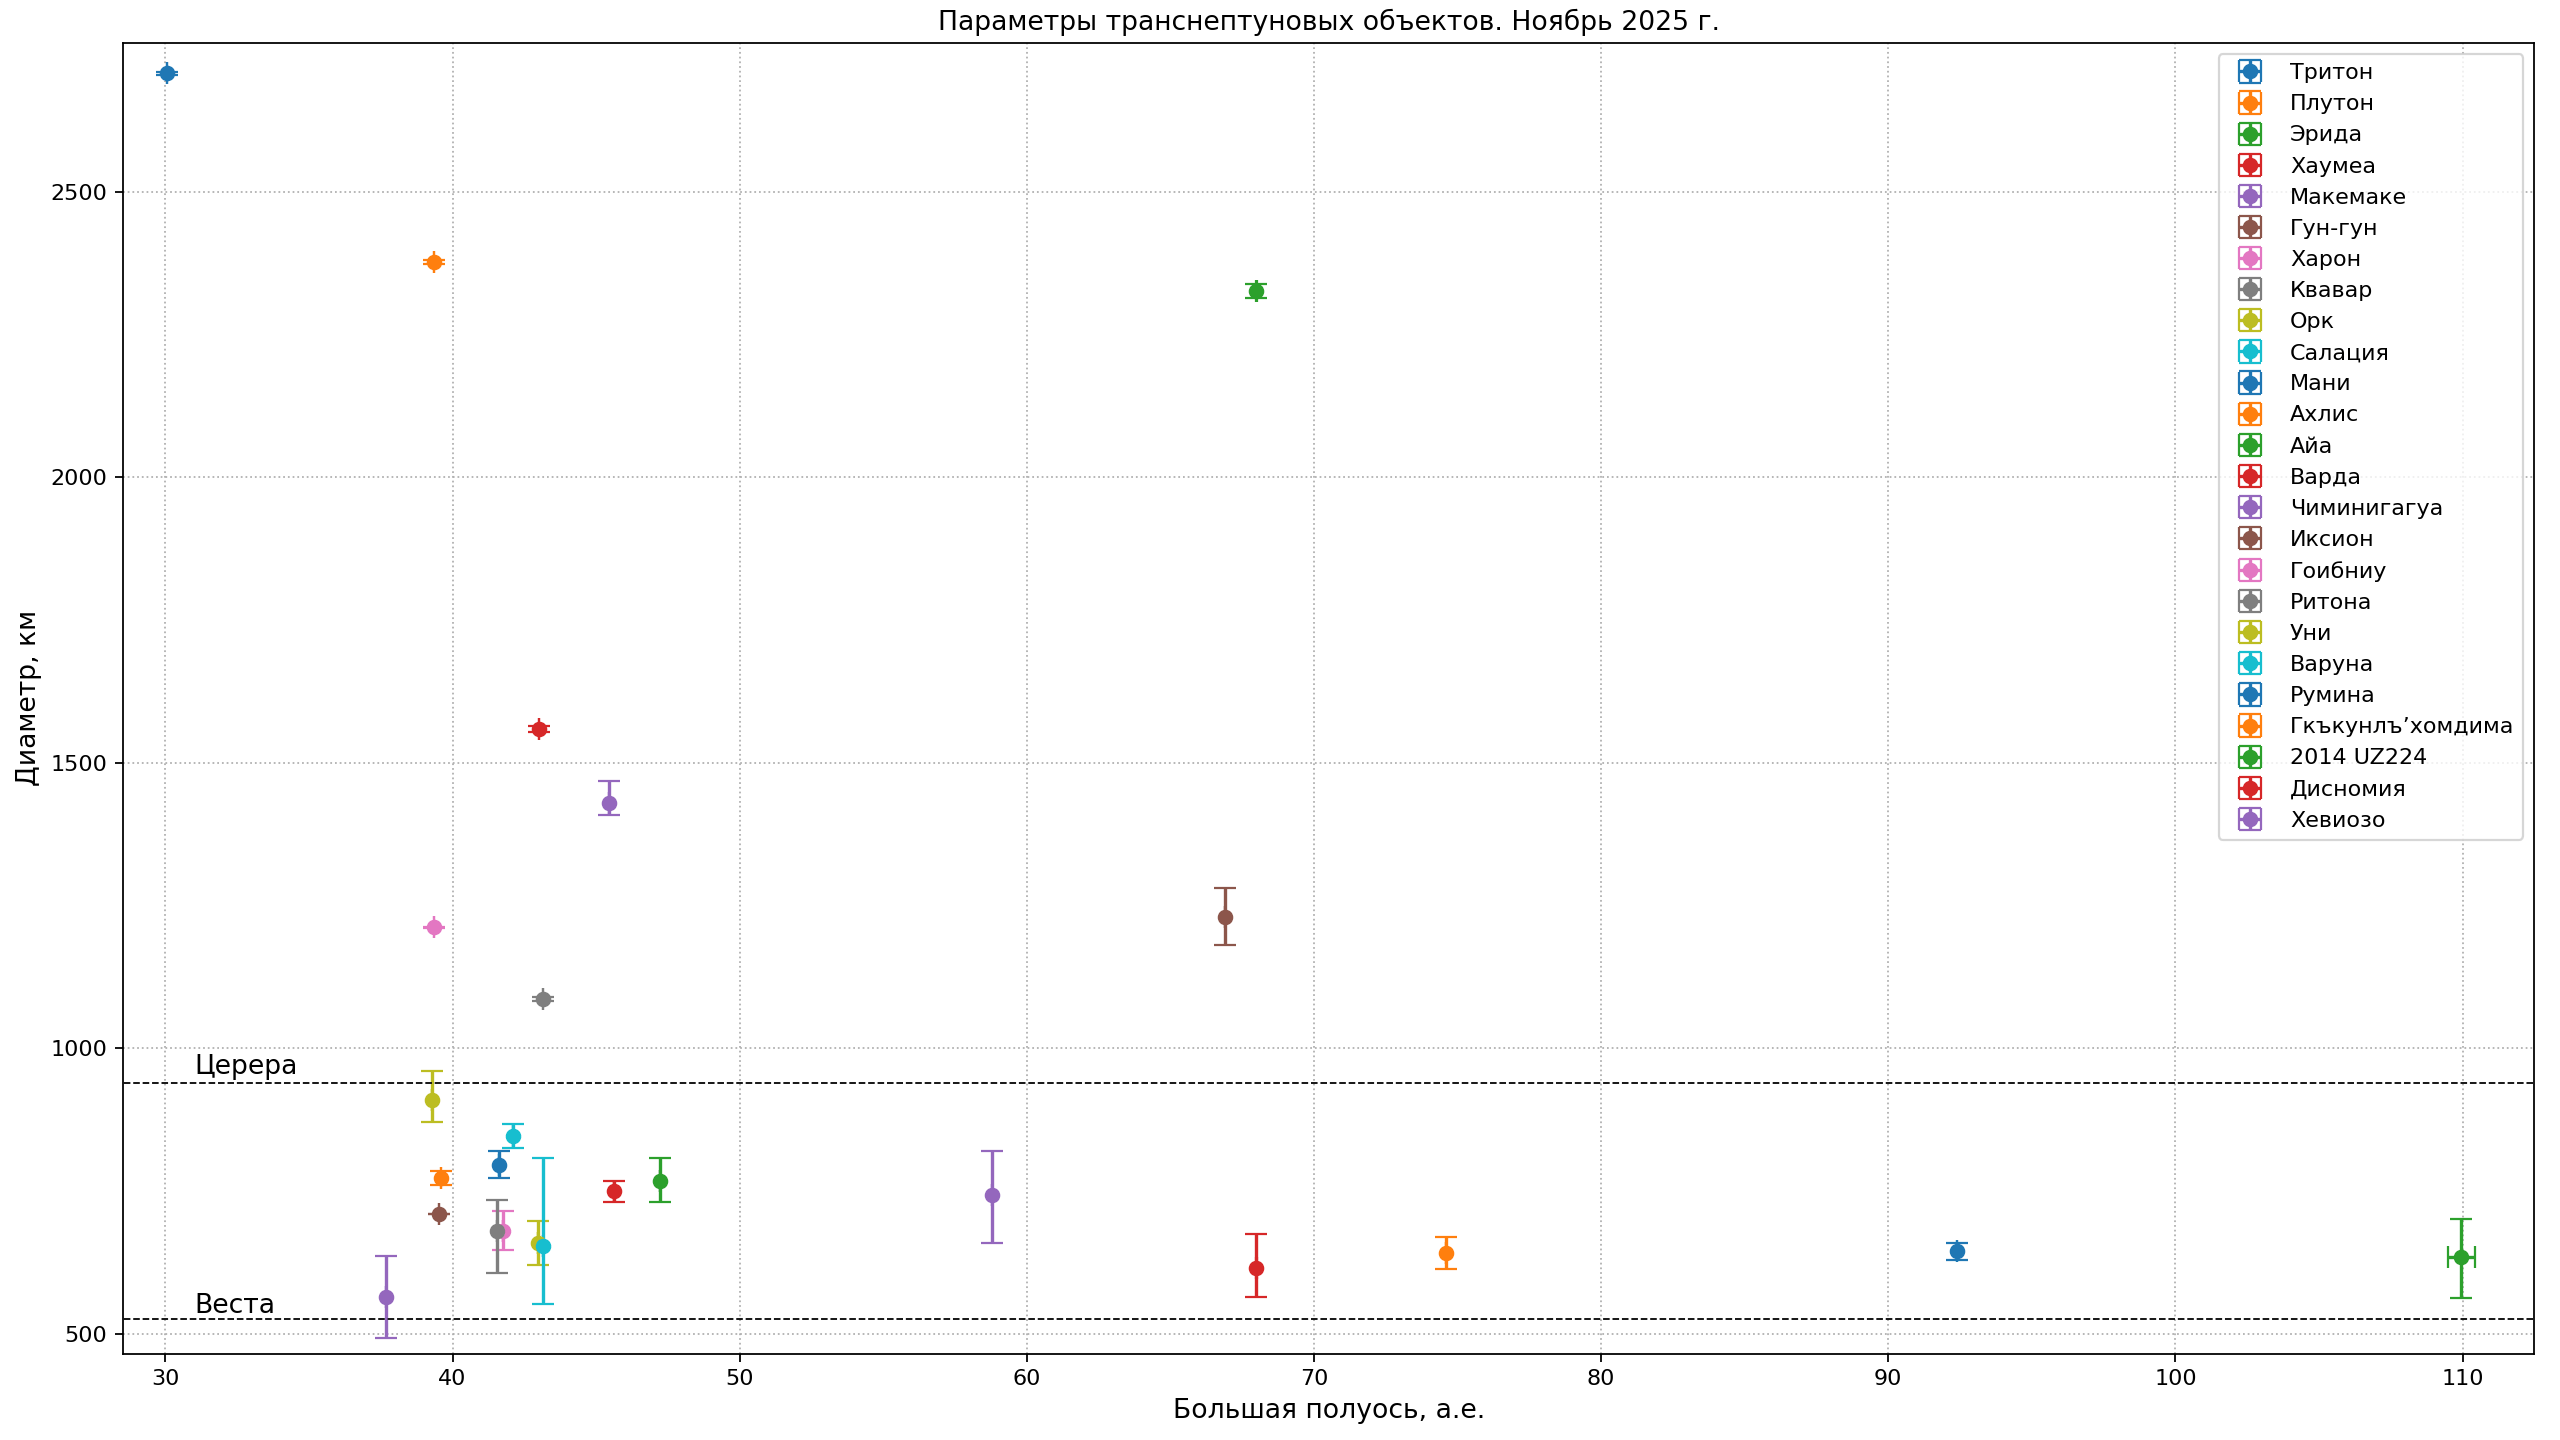
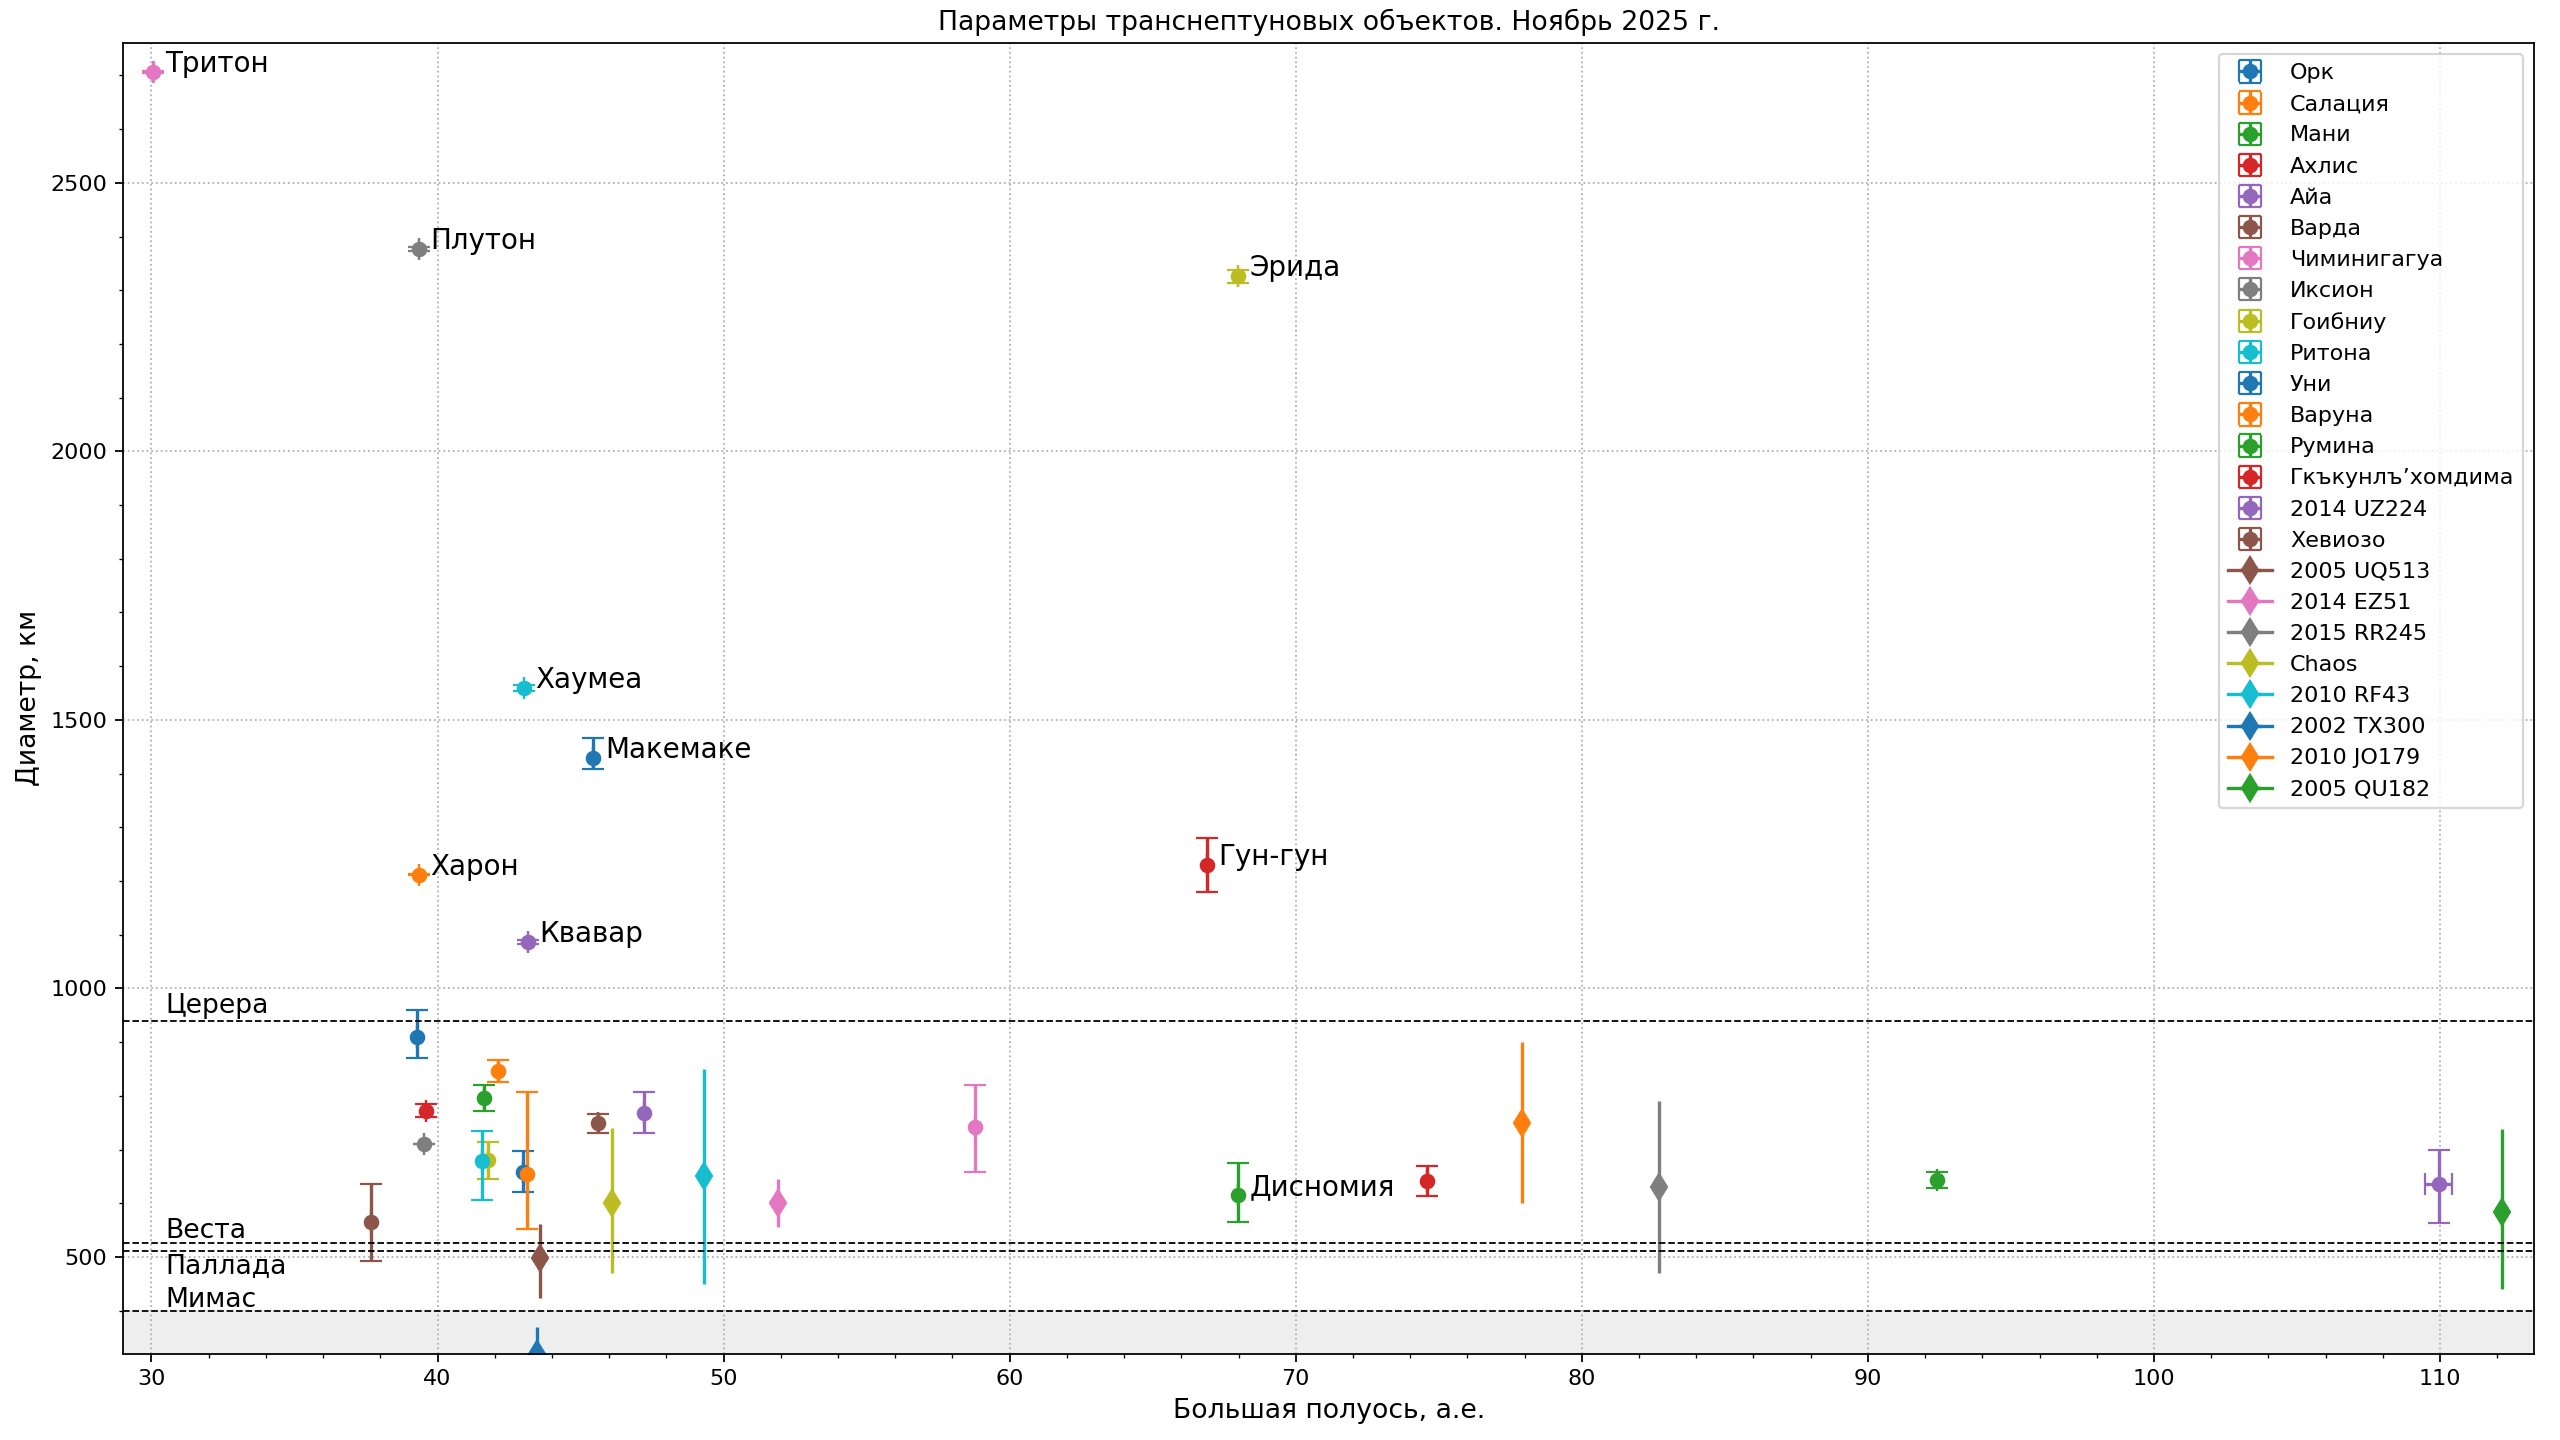
Update plot and code

diff --git a/src/astrodata/solarsystem/largest-tno-d-a-with-errors.py b/src/astrodata/solarsystem/largest-tno-d-a-with-errors.py
@@ -1,23 +1,18 @@
 """Python script for plotting distribution of Solar system objects along the semimajor axis and diameter estimate.
-Data sources presented in https://en.wikipedia.org/wiki/List_of_possible_dwarf_planets 
+Data sources are presented in https://en.wikipedia.org/wiki/List_of_possible_dwarf_planets
+Recent orbital parameters are taken from https://www.minorplanetcenter.net/iau/MPCORB.html
 """
 
 import matplotlib.pyplot as plt
+from matplotlib.ticker import AutoMinorLocator
 
 
 data = {
-    # "name", "имя", "semimajor axis", ("a-", "a+"), "diameter", ("d-", "d+"), "uncertainty parameter"],
-    "Triton": ["Тритон", 30.07, (0.002, 0.002), 2707, (2, 2),               0],
-    "Pluto": ["Плутон", 39.33986, (0.00006, 0.00006), 2377, (3, 3),         0],
-    "Eris": ["Эрида", 67.997129, (0.00093, 0.00093), 2326, (12, 12),        2],
-    "Haumea": ["Хаумеа", 43.0056888, (0.00027, 0.00027), 1559, (6, 6),      1],
-    "Makemake": ["Макемаке", 45.449691, (0.00027, 0.00027), 1429, (20, 38), 1],
-    "Gonggong": ["Гун-гун", 66.895052, (0.0056, 0.0056), 1230, (50, 50),    3],
-    "Charon": ["Харон", 39.33986, (0.00006, 0.00006), 1212, (1, 1),         0],
-    "Quaoar": ["Квавар", 43.1629259, (0.00027, 0.00027), 1086, (4, 4),      1],
+    # "name/designation": ["имя", "semimajor axis", ("a-", "a+"), "diameter", ("d-", "d+"), "uncertainty parameter"],
     # Ceres is here
     "Orcus": ["Орк", 39.2892348, (0.00027, 0.00027), 910, (40, 50),         1],
-    # Sedna is here
+    # "Sedna": ["Седна", 549.5551805, (0.05467, 0.05467), 906, (258, 314),       5],
+    # "Sedna": ["Седна", 549.5551805, (0.05467, 0.05467), 1025, (135, 135),      5],
     "Salacia": ["Салация", 42.1155087, (0.00027, 0.00027), 846, (21, 21),   1],
     "Mani": ["Мани", 41.621024, (0.00027, 0.00027), 796, (24, 24),          1],
     "Achlys": ["Ахлис", 39.5852395, (0.00027, 0.00027), 772, (12, 12),      1],
@@ -30,13 +25,34 @@ data = {
     "Uni": ["Уни", 42.9751954, (0.00093, 0.00093), 659, (38, 38),           2],
     "Varuna": ["Варуна", 43.137263, (0.00027, 0.00027), 654, (102, 154),    1],
     "Rumina": ["Румина", 92.4091498, (0.00006, 0.00006), 644, (15, 15),     0],
-    "Gǃkúnǁʼhòmdímà": ["Гкъкунлъʼхомдима", 74.5872403, (0.0056, 0.0056), 642, (28, 28), 3],
+    "Gǃkúnǁʼhòmdímà": ["Гкъкунлъʼхомдима", 74.587240, (0.0056, 0.0056), 642, (28, 28), 3],
     "2014 UZ224": ["2014 UZ224", 109.94931, (0.46666, 0.46666), 635, (72, 65), 6],
-    "Dysnomia": ["Дисномия", 67.997129, (0.00093, 0.00093), 615, (50, 60),     2],
     "Xewioso": ["Хевиозо", 37.683198, (0.00093, 0.00093), 565, (73, 71),       2],
-    # "Sedna": ["Седна", 549.5551805, (0.05467, 0.05467), 906, (258, 314),       5],
-    "Sedna": ["Седна", 549.5551805, (0.05467, 0.05467), 1025, (135, 135),      5],
 }
+
+data_nam = {
+    "Triton": ["Тритон", 30.07, (0.002, 0.002), 2707, (2, 2),               0],
+    "Pluto": ["Плутон", 39.33986, (0.00006, 0.00006), 2377, (3, 3),         0],
+    "Eris": ["Эрида", 67.997129, (0.00093, 0.00093), 2326, (12, 12),        2],
+    "Haumea": ["Хаумеа", 43.0056888, (0.00027, 0.00027), 1559, (6, 6),      1],
+    "Makemake": ["Макемаке", 45.449691, (0.00027, 0.00027), 1429, (20, 38), 1],
+    "Charon": ["Харон", 39.33986, (0.00006, 0.00006), 1212, (1, 1),         0],
+    "Dysnomia": ["Дисномия", 67.997129, (0.00093, 0.00093), 615, (50, 60),  2],
+    "Gonggong": ["Гун-гун", 66.895052, (0.0056, 0.0056), 1230, (50, 50),    3],
+    "Quaoar": ["Квавар", 43.1629259, (0.00027, 0.00027), 1086, (4, 4),      1],
+}
+
+data_numbered = {
+    "2005 UQ513": ["2005 UQ513", 43.5774, (0.00093, 0.00093), 498, (75, 63),   2],
+    "2014 EZ51":  ["2014 EZ51", 51.8868, (0.00093, 0.00093), 600, (45, 45),    2],
+    "2015 RR245": ["2015 RR245", 82.6937, (0.00933, 0.00933), 630, (160, 160), 4],
+    "Chaos":      ["Chaos", 46.0987, (0.00027, 0.00027), 600, (130, 140),      1],
+    "2010 RF43":  ["2010 RF43", 49.3014, (0.00093, 0.00093), 650, (200, 200),  2],
+    "2002 TX300": ["2002 TX300", 43.4775, (0.00027, 0.00027), 320, (50, 50),   1],
+    "2010 JO179": ["2010 JO179", 77.9161, (0.00093, 0.00093), 750, (150, 150), 2],
+    "2005 QU182": ["2005 QU182", 112.1647, (0.00027, 0.00027), 584, (144, 155), 1],
+}
+
 
 fig, ax = plt.subplots(figsize=(16, 9))
 fig.subplots_adjust(0.048, 0.06, 0.99, 0.97)
@@ -44,24 +60,46 @@ fig.subplots_adjust(0.048, 0.06, 0.99, 0.97)
 for k, d in data.items():
     plt.errorbar(d[1], d[3], xerr=([d[2][0]], [d[2][1]]), yerr=([d[4][0]], [d[4][1]]), fmt='o', capsize=5, label=d[0])
 
-plt.plot([25.6, 556.4], [939.4, 939.4], "--k", lw=0.8, c="k")
+for k, d in data_nam.items():
+    plt.errorbar(d[1], d[3], xerr=([d[2][0]], [d[2][1]]), yerr=([d[4][0]], [d[4][1]]), fmt='o', capsize=5)
+    t = plt.annotate(d[0], (d[1] + 0.4, d[3]), fontsize=12.5)
 
-xan = 46.5
-# xan = 31
-t = plt.annotate(
-    "Церера", (xan, 954), color="black", fontsize=12)
-plt.plot([25.6, 556.4], [525.4, 525.4], "--k", lw=0.8, c="k")
-t = plt.annotate(
-    "Веста", (xan, 536), color="black", fontsize=12)
+for k, d in data_numbered.items():
+    plt.errorbar(d[1], d[3], xerr=([d[2][0]], [d[2][1]]), yerr=([d[4][0]], [d[4][1]]), marker="d", ms=8, label=d[0])
 
-# plt.xlim(28.52, 112.5)
-plt.xlim(25.6, 556.4)
-plt.ylim(465, 2760)
+XLIMS = (29, 113.3)
+# XLIMS = (26, 556.4)
+YLIMS = (320, 2760)
+# YLIMS = (465, 2760)
+XAN = 30.5
+# XAN = 46.5
+MON, YR = "Ноябрь", 2025
+DPI = 160
+
+plt.plot(XLIMS, [939.4, 939.4], "--", lw=0.8, c="k")
+t = plt.annotate(
+    "Церера", (XAN, 954), color="black", fontsize=12)
+plt.plot(XLIMS, [525.4, 525.4], "--", lw=0.8, c="k")
+t = plt.annotate(
+    "Веста", (XAN, 536), color="black", fontsize=12)
+plt.plot(XLIMS, [511, 511], "--", lw=0.8, c="k")
+t = plt.annotate(
+    "Паллада", (XAN, 470), color="black", fontsize=12)
+plt.plot(XLIMS, [399, 399], "--", lw=0.8, c="k")
+t = plt.annotate(
+    "Мимас", (XAN, 406), color="black", fontsize=12)
+
+ax.fill_between(XLIMS, YLIMS[0], 399, color="#eee")
+
+plt.xlim(XLIMS)
+plt.ylim(YLIMS)
 plt.xlabel("Большая полуось, а.е.", fontsize=12)
 plt.ylabel("Диаметр, км", fontsize=12)
-plt.title("Параметры транснептуновых объектов. Ноябрь 2025 г.")
+plt.title(f"Параметры транснептуновых объектов. {MON} {YR} г.")
 plt.legend()
-plt.grid(linestyle="dotted")
+plt.grid(linestyle="dotted", which="major")
+ax.xaxis.set_minor_locator(AutoMinorLocator())
+ax.yaxis.set_minor_locator(AutoMinorLocator())
 
-plt.show()
-plt.savefig("../../../plots/solarsystem/tno-diam-a-errors.png", dpi=120)
+# plt.show()
+plt.savefig(f"../../../plots/solarsystem/largest-tno-d-a-errors-{round(XLIMS[1])}au-ru-.png", dpi=DPI)
